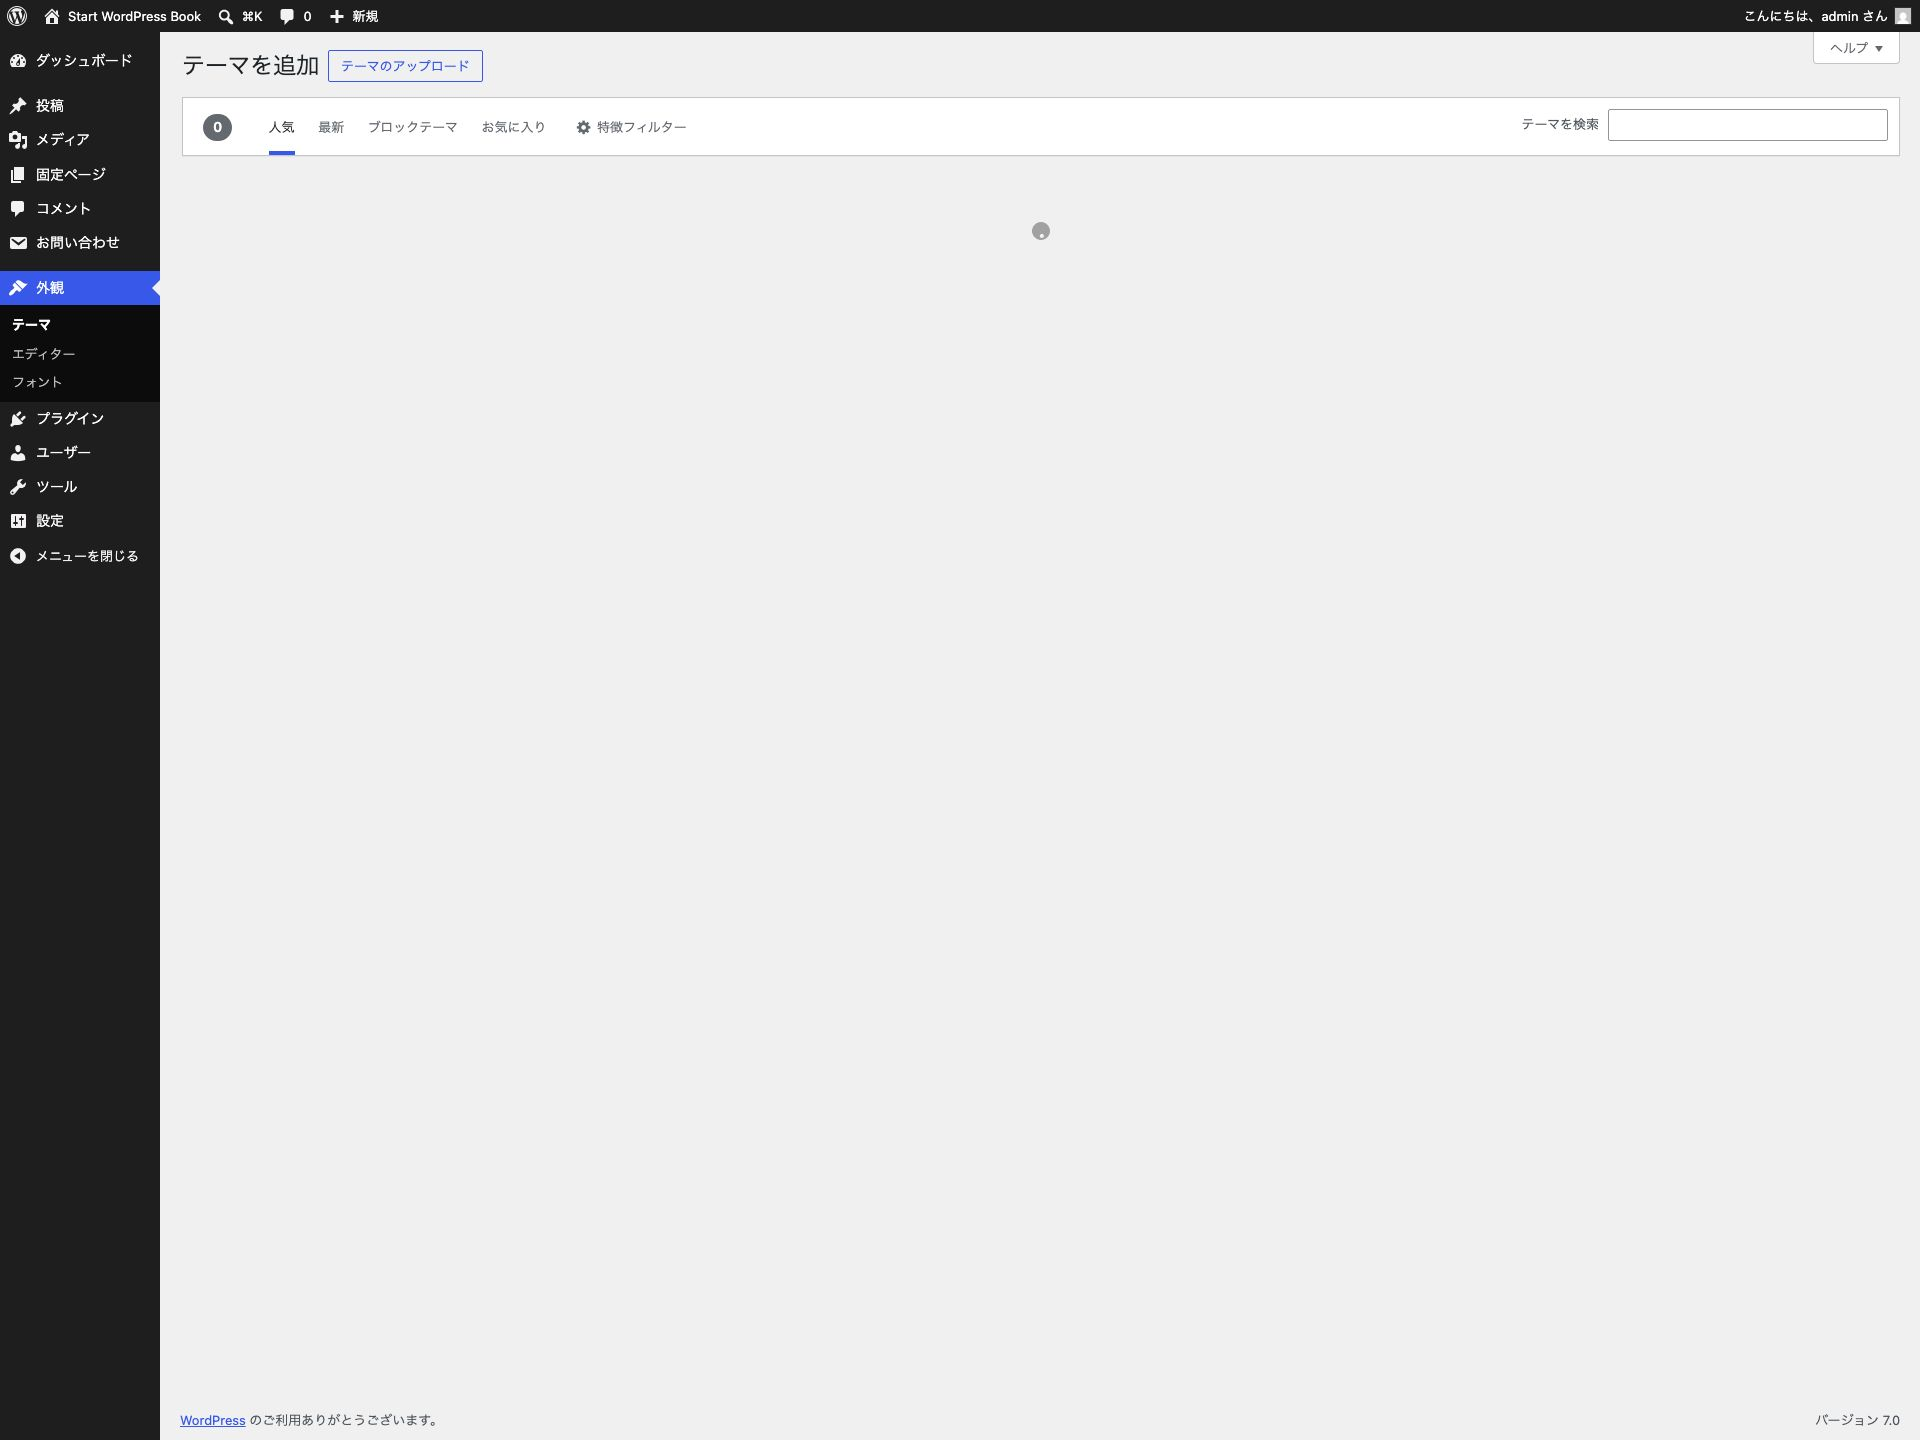
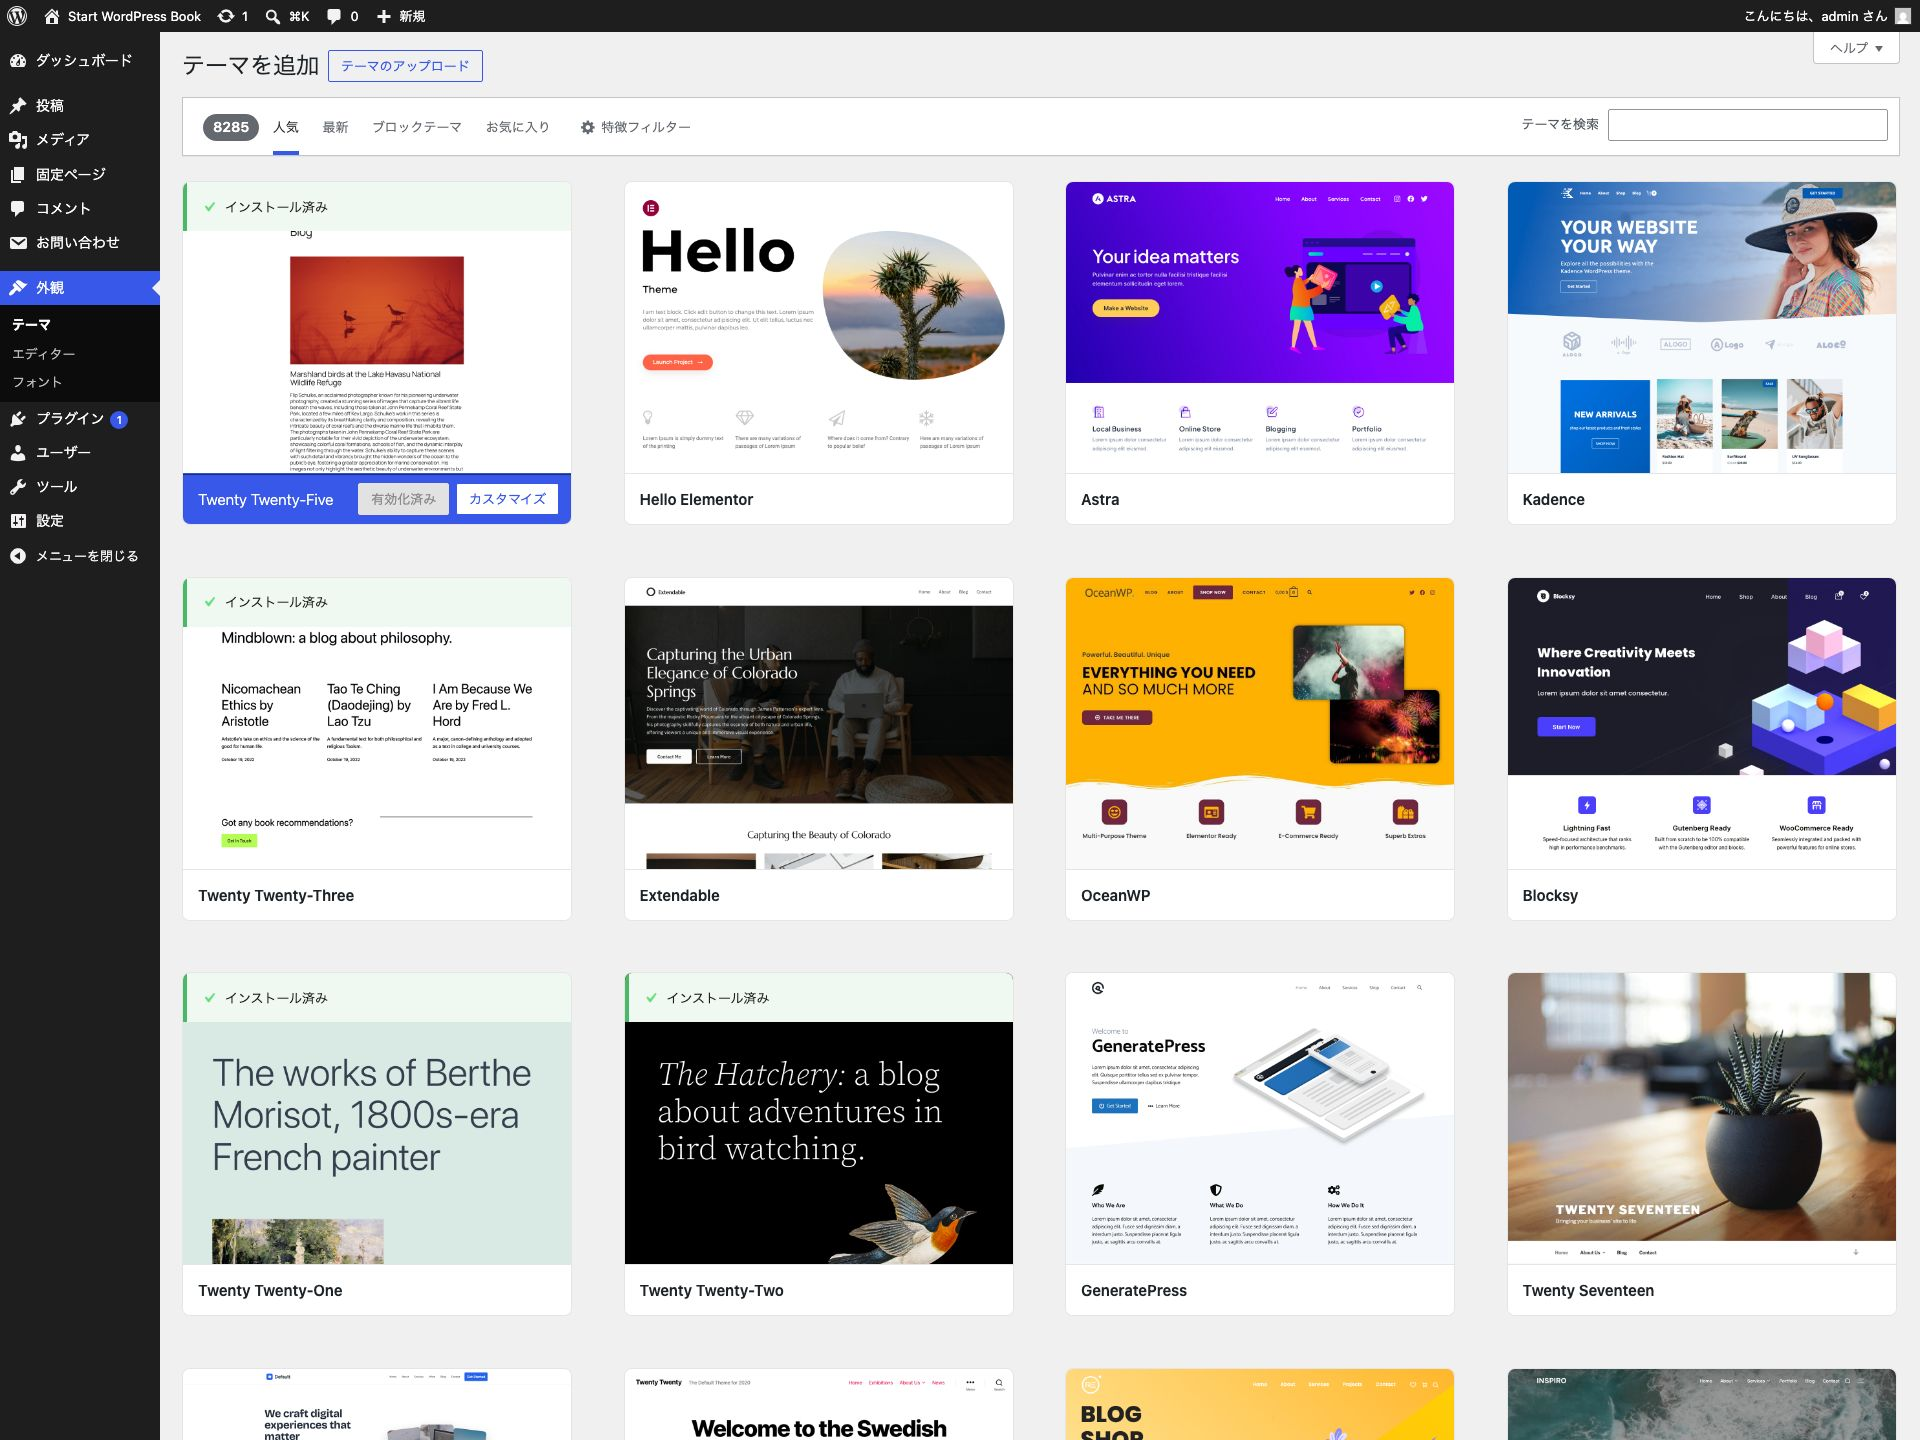
2章の修正

diff --git a/article/02/2-2.md b/article/02/2-2.md
@@ -35,3 +35,13 @@
 ![WordPress イベントとニュースウィジェット](./images/7.0/2-2-wordpress-dashboard-wordpress-event.jpg){width=91.22mm}
 
 アクセスしている場所から近くで開催される予定の WordPress イベントと、直近に公開された WordPress に関するお知らせが表示されます。
+
+## 表示オプション
+
+ツールバーの下にタブとして表示される表示オプションでは、特定の管理画面の作業領域に表示するフィールドやモジュールを変更できます。アクセスしている画面ごとに異なる画面オプション内容になるため、各ページでどんな表示オプションが選択できるのか注意深く確認してみると良いでしょう。
+
+## ヘルプ
+
+ツールバーの下、表示オプションの隣に表示される **ヘルプ** には、作業領域に表示されている画面に関連するヘルプ項目が表示されます。
+
+ヘルプタブをクリックするとヘルプ項目が表示され、右下のタブをクリックすると折りたたまれます。
